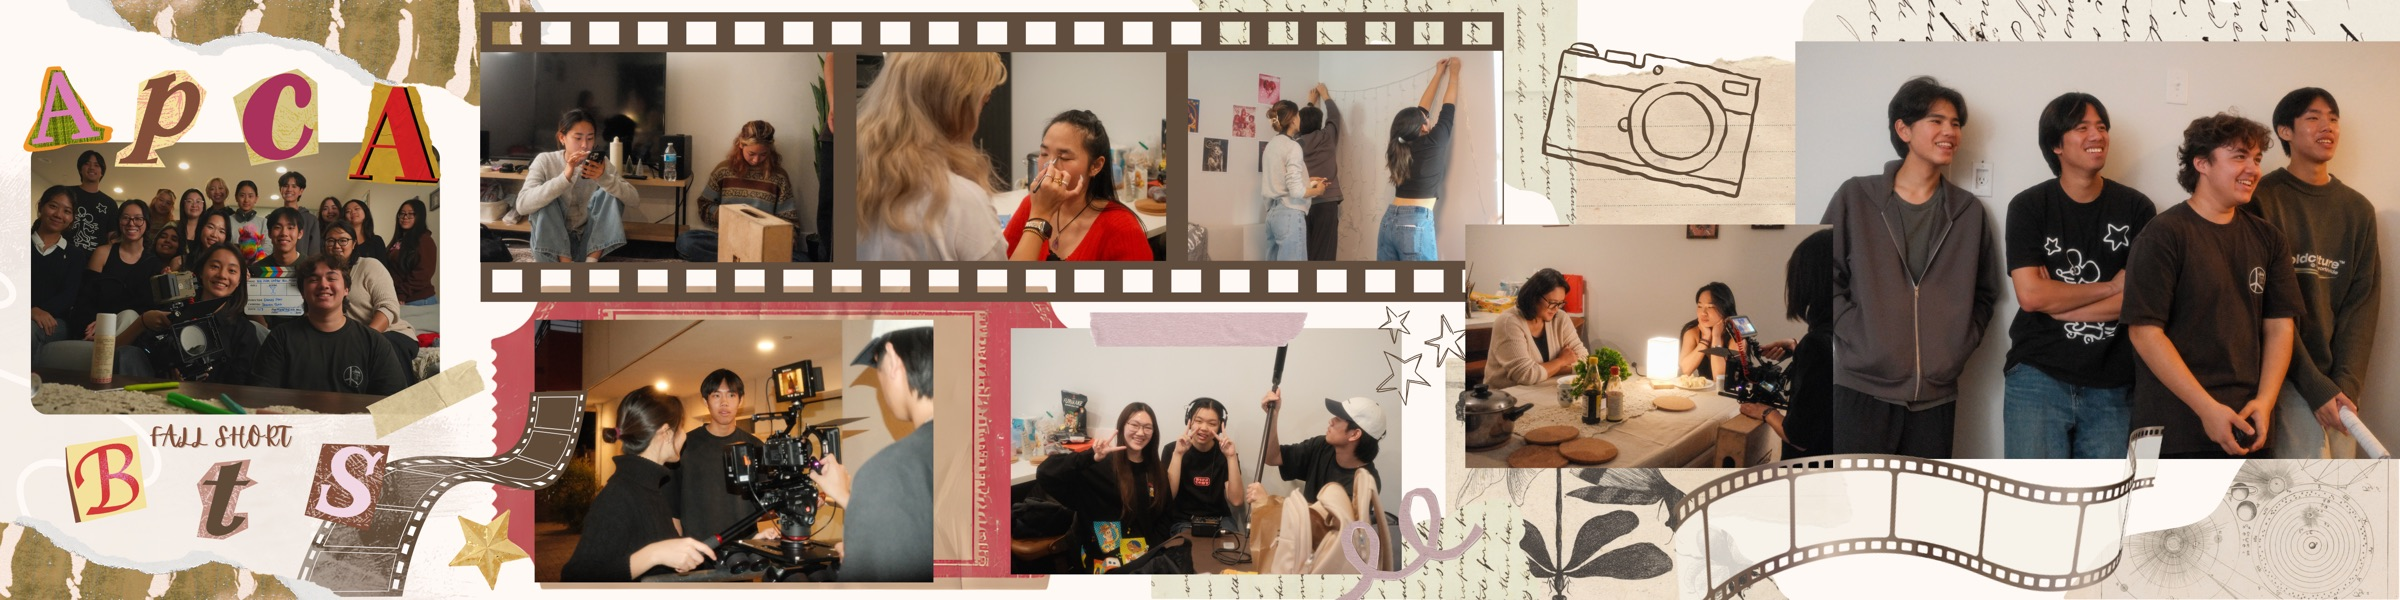
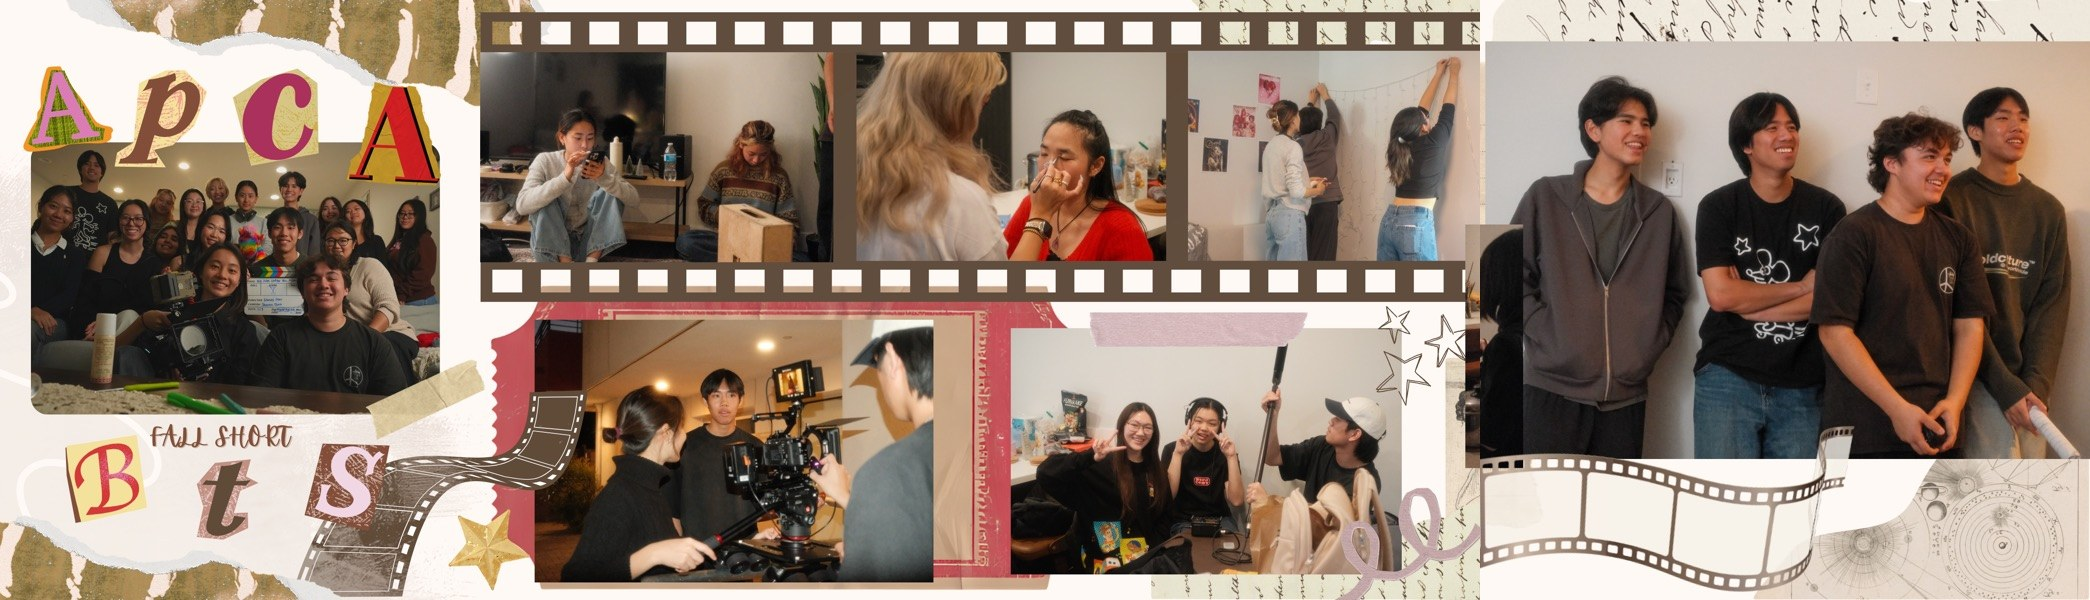
Add a Let's Connect section, simplify footer to just the copyright line
Replaced the mismatched footer-links (phone numbers on some pages,
Home/GitHub on others) with one consistent pattern everywhere: a
"Let's Connect" section — dashed-border icon squares for Instagram,
LinkedIn, GitHub, and Email, styled in the site's own beige/accent
palette — followed by a plain "© 2026 Kaitlyn Ooi" footer line, on
every page.

diff --git a/css/style.css b/css/style.css
@@ -133,27 +133,62 @@ nav.site-nav {
   padding: 0.28rem 0.7rem;
 }
 
+/* ---------- Let's Connect ---------- */
+.connect {
+  position: relative;
+  z-index: 2;
+  padding: 3.5rem 3rem 3rem;
+  text-align: center;
+  border-top: 1px solid var(--border);
+}
+
+.connect-label {
+  font-size: 0.68rem;
+  letter-spacing: 0.3em;
+  text-transform: uppercase;
+  color: var(--accent);
+  margin-bottom: 1.6rem;
+}
+
+.connect-icons {
+  display: flex;
+  justify-content: center;
+  gap: 1rem;
+}
+
+.connect-icon {
+  width: 54px;
+  height: 54px;
+  display: flex;
+  align-items: center;
+  justify-content: center;
+  border: 1px dashed var(--border-strong);
+  color: var(--text);
+  text-decoration: none;
+  transition: border-color 0.2s, color 0.2s, background 0.2s, border-style 0.2s;
+}
+
+.connect-icon:hover {
+  border-color: var(--accent);
+  border-style: solid;
+  color: var(--accent);
+  background: var(--accent-soft);
+}
+
+.connect-icon svg {
+  width: 20px; height: 20px;
+  stroke: currentColor; fill: none; stroke-width: 1.6;
+}
+
 /* ---------- Footer ---------- */
 footer.site-footer {
   position: relative;
   z-index: 2;
-  border-top: 1px solid var(--border);
-  padding: 2rem 3rem;
-  display: flex;
-  justify-content: space-between;
-  align-items: center;
-  flex-wrap: wrap;
-  gap: 1rem;
+  padding: 1.6rem 3rem;
+  text-align: center;
 }
 
 footer.site-footer p { font-size: 0.65rem; letter-spacing: 0.1em; color: var(--muted); }
-
-.footer-links { display: flex; gap: 1.5rem; list-style: none; }
-.footer-links a {
-  font-size: 0.65rem; letter-spacing: 0.1em;
-  color: var(--muted); text-decoration: none; transition: color 0.2s;
-}
-.footer-links a:hover { color: var(--accent); }
 
 @keyframes fadeUp {
   from { opacity: 0; transform: translateY(14px); }
@@ -166,6 +201,8 @@ footer.site-footer p { font-size: 0.65rem; letter-spacing: 0.1em; color: var(--m
 }
 
 @media (max-width: 640px) {
-  nav.site-nav, footer.site-footer { padding-left: 1.5rem; padding-right: 1.5rem; }
+  nav.site-nav, footer.site-footer, .connect { padding-left: 1.5rem; padding-right: 1.5rem; }
   .nav-links { gap: 1.1rem; }
+  .connect-icon { width: 46px; height: 46px; }
+  .connect-icons { gap: 0.7rem; }
 }

diff --git a/film/index.html b/film/index.html
@@ -236,13 +236,26 @@
 
 </main>
 
+<section class="connect">
+  <p class="connect-label">/ Let&rsquo;s Connect</p>
+  <div class="connect-icons">
+    <a class="connect-icon" href="https://www.instagram.com/kaitlynooi_/" target="_blank" rel="noopener" aria-label="Instagram">
+      <svg viewBox="0 0 24 24"><rect x="2" y="2" width="20" height="20" rx="5.5"/><circle cx="12" cy="12" r="4.3"/><circle cx="17.3" cy="6.7" r="0.6" fill="currentColor" stroke="none"/></svg>
+    </a>
+    <a class="connect-icon" href="https://www.linkedin.com/in/kaitlyn-ooi/" target="_blank" rel="noopener" aria-label="LinkedIn">
+      <svg viewBox="0 0 24 24"><rect x="3" y="3" width="18" height="18" rx="2"/><path d="M8 11v5M8 8v.01M12 16v-3a2 2 0 1 1 4 0v3M12 13v3"/></svg>
+    </a>
+    <a class="connect-icon" href="https://github.com/KaitlynOoi" target="_blank" rel="noopener" aria-label="GitHub">
+      <svg viewBox="0 0 24 24"><path d="M9 19c-5 1.5-5-2.5-7-3m14 6v-3.87a3.37 3.37 0 0 0-.94-2.61c3.14-.35 6.44-1.54 6.44-7A5.44 5.44 0 0 0 20 4.77 5.07 5.07 0 0 0 19.91 1S18.73.65 16 2.48a13.38 13.38 0 0 0-7 0C6.27.65 5.09 1 5.09 1A5.07 5.07 0 0 0 5 4.77a5.44 5.44 0 0 0-1.5 3.78c0 5.42 3.3 6.61 6.44 7A3.37 3.37 0 0 0 9 18.13V22"/></svg>
+    </a>
+    <a class="connect-icon" href="mailto:ooikaitlyn1004@gmail.com" aria-label="Email">
+      <svg viewBox="0 0 24 24"><rect x="2" y="4" width="20" height="16" rx="2"/><path d="M2 7l10 6 10-6"/></svg>
+    </a>
+  </div>
+</section>
+
 <footer class="site-footer">
-  <p>&copy; 2026 Kaitlyn Ooi &nbsp;&middot;&nbsp; Los Angeles, CA</p>
-  <ul class="footer-links">
-    <li><a href="tel:+12138274469">+1 213 827 4469</a></li>
-    <li><a href="tel:+60127250073">+60 12 725 0073</a></li>
-    <li><a href="mailto:ooikaitlyn1004@gmail.com">Email</a></li>
-  </ul>
+  <p>&copy; 2026 Kaitlyn Ooi</p>
 </footer>
 
 <script src="../js/interactions.js" defer></script>

diff --git a/index.html b/index.html
@@ -113,13 +113,26 @@
   </div>
 </main>
 
+<section class="connect">
+  <p class="connect-label">/ Let&rsquo;s Connect</p>
+  <div class="connect-icons">
+    <a class="connect-icon" href="https://www.instagram.com/kaitlynooi_/" target="_blank" rel="noopener" aria-label="Instagram">
+      <svg viewBox="0 0 24 24"><rect x="2" y="2" width="20" height="20" rx="5.5"/><circle cx="12" cy="12" r="4.3"/><circle cx="17.3" cy="6.7" r="0.6" fill="currentColor" stroke="none"/></svg>
+    </a>
+    <a class="connect-icon" href="https://www.linkedin.com/in/kaitlyn-ooi/" target="_blank" rel="noopener" aria-label="LinkedIn">
+      <svg viewBox="0 0 24 24"><rect x="3" y="3" width="18" height="18" rx="2"/><path d="M8 11v5M8 8v.01M12 16v-3a2 2 0 1 1 4 0v3M12 13v3"/></svg>
+    </a>
+    <a class="connect-icon" href="https://github.com/KaitlynOoi" target="_blank" rel="noopener" aria-label="GitHub">
+      <svg viewBox="0 0 24 24"><path d="M9 19c-5 1.5-5-2.5-7-3m14 6v-3.87a3.37 3.37 0 0 0-.94-2.61c3.14-.35 6.44-1.54 6.44-7A5.44 5.44 0 0 0 20 4.77 5.07 5.07 0 0 0 19.91 1S18.73.65 16 2.48a13.38 13.38 0 0 0-7 0C6.27.65 5.09 1 5.09 1A5.07 5.07 0 0 0 5 4.77a5.44 5.44 0 0 0-1.5 3.78c0 5.42 3.3 6.61 6.44 7A3.37 3.37 0 0 0 9 18.13V22"/></svg>
+    </a>
+    <a class="connect-icon" href="mailto:ooikaitlyn1004@gmail.com" aria-label="Email">
+      <svg viewBox="0 0 24 24"><rect x="2" y="4" width="20" height="16" rx="2"/><path d="M2 7l10 6 10-6"/></svg>
+    </a>
+  </div>
+</section>
+
 <footer class="site-footer">
-  <p>&copy; 2026 Kaitlyn Ooi &nbsp;&middot;&nbsp; Los Angeles, CA</p>
-  <ul class="footer-links">
-    <li><a href="tel:+12138274469">+1 213 827 4469</a></li>
-    <li><a href="tel:+60127250073">+60 12 725 0073</a></li>
-    <li><a href="mailto:ooikaitlyn1004@gmail.com">Email</a></li>
-  </ul>
+  <p>&copy; 2026 Kaitlyn Ooi</p>
 </footer>
 
 </body>

diff --git a/blog/posts/early-childhood-literacy-and-college-admission.html b/blog/posts/early-childhood-literacy-and-college-admission.html
@@ -111,13 +111,26 @@
 
 </main>
 
+<section class="connect">
+  <p class="connect-label">/ Let&rsquo;s Connect</p>
+  <div class="connect-icons">
+    <a class="connect-icon" href="https://www.instagram.com/kaitlynooi_/" target="_blank" rel="noopener" aria-label="Instagram">
+      <svg viewBox="0 0 24 24"><rect x="2" y="2" width="20" height="20" rx="5.5"/><circle cx="12" cy="12" r="4.3"/><circle cx="17.3" cy="6.7" r="0.6" fill="currentColor" stroke="none"/></svg>
+    </a>
+    <a class="connect-icon" href="https://www.linkedin.com/in/kaitlyn-ooi/" target="_blank" rel="noopener" aria-label="LinkedIn">
+      <svg viewBox="0 0 24 24"><rect x="3" y="3" width="18" height="18" rx="2"/><path d="M8 11v5M8 8v.01M12 16v-3a2 2 0 1 1 4 0v3M12 13v3"/></svg>
+    </a>
+    <a class="connect-icon" href="https://github.com/KaitlynOoi" target="_blank" rel="noopener" aria-label="GitHub">
+      <svg viewBox="0 0 24 24"><path d="M9 19c-5 1.5-5-2.5-7-3m14 6v-3.87a3.37 3.37 0 0 0-.94-2.61c3.14-.35 6.44-1.54 6.44-7A5.44 5.44 0 0 0 20 4.77 5.07 5.07 0 0 0 19.91 1S18.73.65 16 2.48a13.38 13.38 0 0 0-7 0C6.27.65 5.09 1 5.09 1A5.07 5.07 0 0 0 5 4.77a5.44 5.44 0 0 0-1.5 3.78c0 5.42 3.3 6.61 6.44 7A3.37 3.37 0 0 0 9 18.13V22"/></svg>
+    </a>
+    <a class="connect-icon" href="mailto:ooikaitlyn1004@gmail.com" aria-label="Email">
+      <svg viewBox="0 0 24 24"><rect x="2" y="4" width="20" height="16" rx="2"/><path d="M2 7l10 6 10-6"/></svg>
+    </a>
+  </div>
+</section>
+
 <footer class="site-footer">
-  <p>&copy; 2026 Kaitlyn Ooi &nbsp;&middot;&nbsp; Los Angeles, CA</p>
-  <ul class="footer-links">
-    <li><a href="tel:+12138274469">+1 213 827 4469</a></li>
-    <li><a href="tel:+60127250073">+60 12 725 0073</a></li>
-    <li><a href="mailto:ooikaitlyn1004@gmail.com">Email</a></li>
-  </ul>
+  <p>&copy; 2026 Kaitlyn Ooi</p>
 </footer>
 
 </body>

diff --git a/engineering/index.html b/engineering/index.html
@@ -314,13 +314,26 @@
 
 </main>
 
+<section class="connect">
+  <p class="connect-label">/ Let&rsquo;s Connect</p>
+  <div class="connect-icons">
+    <a class="connect-icon" href="https://www.instagram.com/kaitlynooi_/" target="_blank" rel="noopener" aria-label="Instagram">
+      <svg viewBox="0 0 24 24"><rect x="2" y="2" width="20" height="20" rx="5.5"/><circle cx="12" cy="12" r="4.3"/><circle cx="17.3" cy="6.7" r="0.6" fill="currentColor" stroke="none"/></svg>
+    </a>
+    <a class="connect-icon" href="https://www.linkedin.com/in/kaitlyn-ooi/" target="_blank" rel="noopener" aria-label="LinkedIn">
+      <svg viewBox="0 0 24 24"><rect x="3" y="3" width="18" height="18" rx="2"/><path d="M8 11v5M8 8v.01M12 16v-3a2 2 0 1 1 4 0v3M12 13v3"/></svg>
+    </a>
+    <a class="connect-icon" href="https://github.com/KaitlynOoi" target="_blank" rel="noopener" aria-label="GitHub">
+      <svg viewBox="0 0 24 24"><path d="M9 19c-5 1.5-5-2.5-7-3m14 6v-3.87a3.37 3.37 0 0 0-.94-2.61c3.14-.35 6.44-1.54 6.44-7A5.44 5.44 0 0 0 20 4.77 5.07 5.07 0 0 0 19.91 1S18.73.65 16 2.48a13.38 13.38 0 0 0-7 0C6.27.65 5.09 1 5.09 1A5.07 5.07 0 0 0 5 4.77a5.44 5.44 0 0 0-1.5 3.78c0 5.42 3.3 6.61 6.44 7A3.37 3.37 0 0 0 9 18.13V22"/></svg>
+    </a>
+    <a class="connect-icon" href="mailto:ooikaitlyn1004@gmail.com" aria-label="Email">
+      <svg viewBox="0 0 24 24"><rect x="2" y="4" width="20" height="16" rx="2"/><path d="M2 7l10 6 10-6"/></svg>
+    </a>
+  </div>
+</section>
+
 <footer class="site-footer">
-  <p>&copy; 2026 Kaitlyn Ooi &nbsp;&middot;&nbsp; Los Angeles, CA</p>
-  <ul class="footer-links">
-    <li><a href="tel:+12138274469">+1 213 827 4469</a></li>
-    <li><a href="tel:+60127250073">+60 12 725 0073</a></li>
-    <li><a href="mailto:ooikaitlyn1004@gmail.com">Email</a></li>
-  </ul>
+  <p>&copy; 2026 Kaitlyn Ooi</p>
 </footer>
 
 </body>

diff --git a/blog/index.html b/blog/index.html
@@ -71,13 +71,26 @@
 
 </main>
 
+<section class="connect">
+  <p class="connect-label">/ Let&rsquo;s Connect</p>
+  <div class="connect-icons">
+    <a class="connect-icon" href="https://www.instagram.com/kaitlynooi_/" target="_blank" rel="noopener" aria-label="Instagram">
+      <svg viewBox="0 0 24 24"><rect x="2" y="2" width="20" height="20" rx="5.5"/><circle cx="12" cy="12" r="4.3"/><circle cx="17.3" cy="6.7" r="0.6" fill="currentColor" stroke="none"/></svg>
+    </a>
+    <a class="connect-icon" href="https://www.linkedin.com/in/kaitlyn-ooi/" target="_blank" rel="noopener" aria-label="LinkedIn">
+      <svg viewBox="0 0 24 24"><rect x="3" y="3" width="18" height="18" rx="2"/><path d="M8 11v5M8 8v.01M12 16v-3a2 2 0 1 1 4 0v3M12 13v3"/></svg>
+    </a>
+    <a class="connect-icon" href="https://github.com/KaitlynOoi" target="_blank" rel="noopener" aria-label="GitHub">
+      <svg viewBox="0 0 24 24"><path d="M9 19c-5 1.5-5-2.5-7-3m14 6v-3.87a3.37 3.37 0 0 0-.94-2.61c3.14-.35 6.44-1.54 6.44-7A5.44 5.44 0 0 0 20 4.77 5.07 5.07 0 0 0 19.91 1S18.73.65 16 2.48a13.38 13.38 0 0 0-7 0C6.27.65 5.09 1 5.09 1A5.07 5.07 0 0 0 5 4.77a5.44 5.44 0 0 0-1.5 3.78c0 5.42 3.3 6.61 6.44 7A3.37 3.37 0 0 0 9 18.13V22"/></svg>
+    </a>
+    <a class="connect-icon" href="mailto:ooikaitlyn1004@gmail.com" aria-label="Email">
+      <svg viewBox="0 0 24 24"><rect x="2" y="4" width="20" height="16" rx="2"/><path d="M2 7l10 6 10-6"/></svg>
+    </a>
+  </div>
+</section>
+
 <footer class="site-footer">
-  <p>&copy; 2026 Kaitlyn Ooi &nbsp;&middot;&nbsp; Los Angeles, CA</p>
-  <ul class="footer-links">
-    <li><a href="tel:+12138274469">+1 213 827 4469</a></li>
-    <li><a href="tel:+60127250073">+60 12 725 0073</a></li>
-    <li><a href="mailto:ooikaitlyn1004@gmail.com">Email</a></li>
-  </ul>
+  <p>&copy; 2026 Kaitlyn Ooi</p>
 </footer>
 
 </body>
